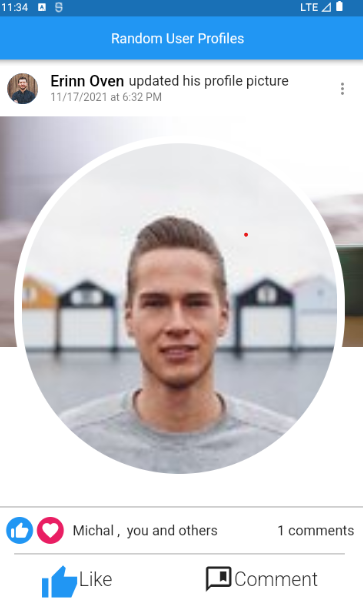
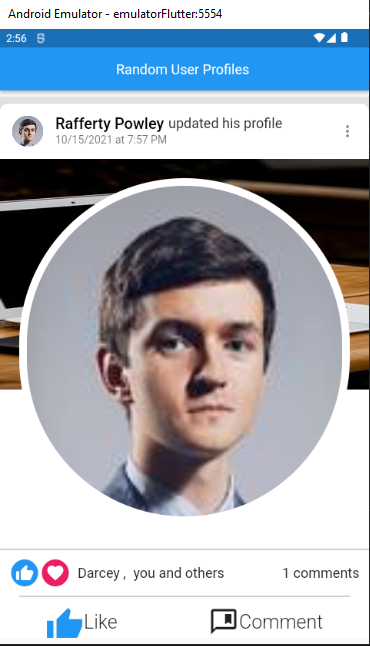
Finished it (may update it in future)

diff --git a/lib/main.dart b/lib/main.dart
@@ -58,7 +58,7 @@ class MyApp extends StatelessWidget {
                   child: Column(
                     children: [
                       TopListTileWidget(index),
-                      MainUserImages(randomUserIndex, bgImage),
+                      MainUserImages(index, bgImage),
                       const Divider(
                         color: Colors.grey,
                       ),

diff --git a/README.md b/README.md
@@ -1,16 +1,21 @@
 # calculator
 
-A new Flutter project.
+##        Static User Profiles like Facebook
 
-## Getting Started
+#  Created this app  for practice while learning flutter
+  
+This app contains some random user profiles (upto 30 users)
+with data dowloaded from randomuser.me in json format
 
-This project is a starting point for a Flutter application.
+![](assets/screenshot1.png)
 
-A few resources to get you started if this is your first Flutter project:
+![](assets/screenshot2.png)
 
-- [Lab: Write your first Flutter app](https://docs.flutter.dev/get-started/codelab)
-- [Cookbook: Useful Flutter samples](https://docs.flutter.dev/cookbook)
+![](assets/screenshot3.png)
 
-For help getting started with Flutter development, view the
-[online documentation](https://docs.flutter.dev/), which offers tutorials,
-samples, guidance on mobile development, and a full API reference.
+![](assets/screenshot4.png)
+
+![](assets/screenshot5.png)
+
+![](assets/screenshot6.png)
+
